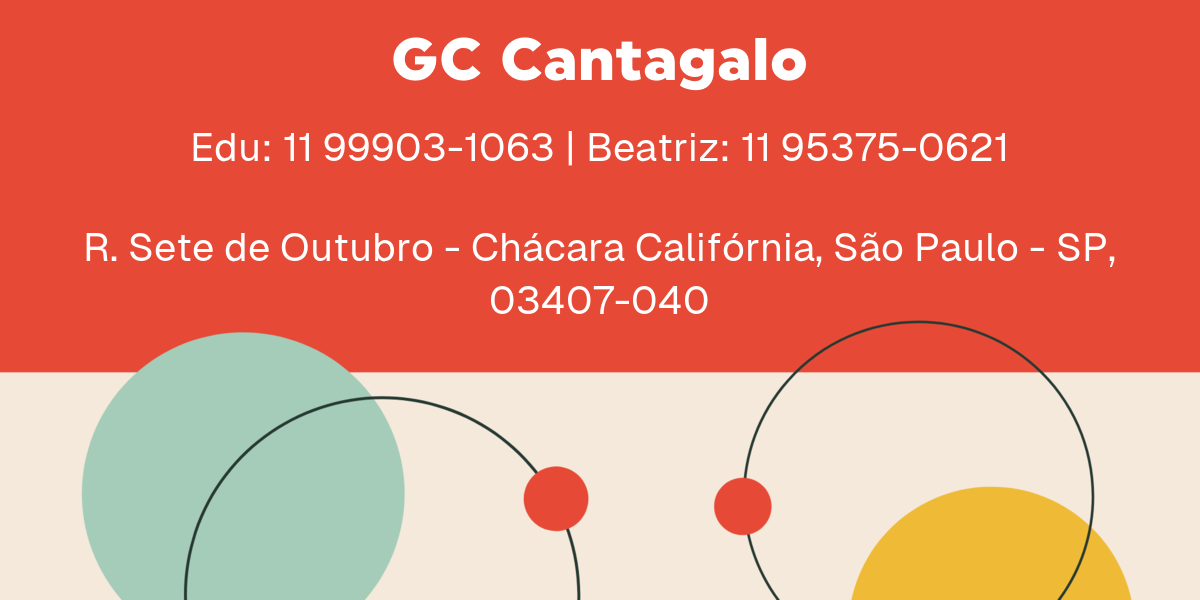
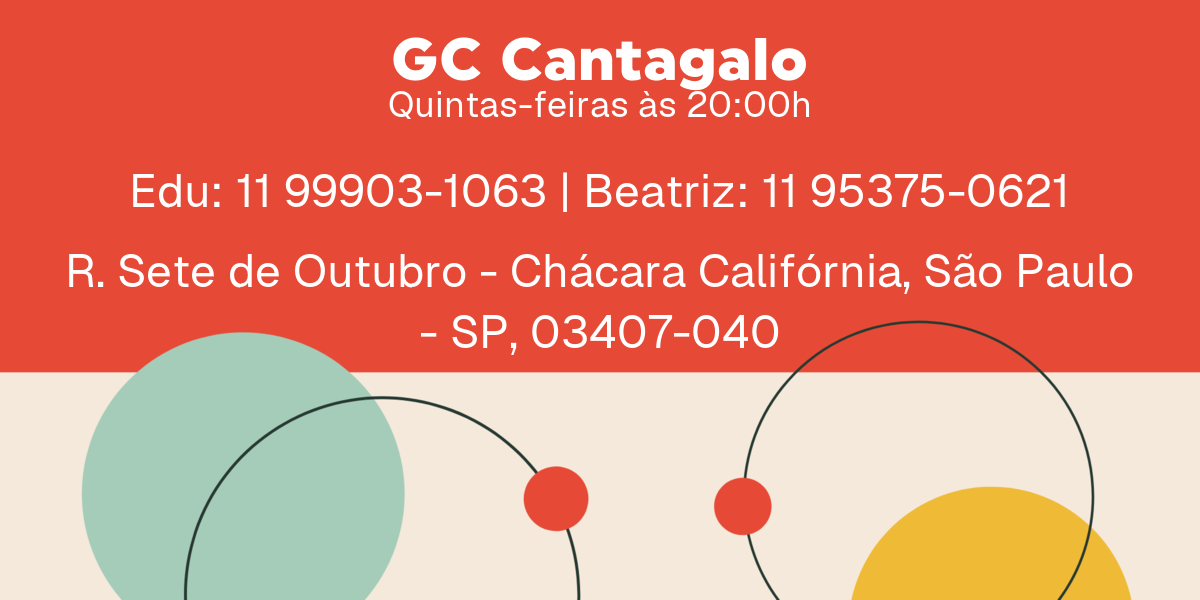
adiciona formatação de horários no gcFormater e refatora criação de imagens OpenGraph com função auxiliar para texto e adiciona nova linha para agenda do GC

Changed region(s): [[0.0925, 0.15, 0.8942, 0.36], [0.0308, 0.39, 0.9558, 0.6]]

diff --git a/scripts/create-opengraph-images-preview.js b/scripts/create-opengraph-images-preview.js
@@ -20,6 +20,21 @@ if (!fs.existsSync(outputDir)) {
   fs.mkdirSync(outputDir, { recursive: true });
 }
 
+function text(text, top, size=46, font=FONT_GEIST) {
+  return [
+    '\\(',
+    '-background none',
+    '-fill white',
+    `-font "${font}"`,
+    `-pointsize ${size}`,
+    '-gravity north',
+    '-size 1100x', // com base no tamanho original da imagem 2048
+    `caption:"${text}"`,
+    `-geometry +0+${top}`,
+    '\\)',
+    '-composite'
+  ].join(' ')
+}
 function createImage(gc, filename) {
   const outputPath = path.join(outputDir, filename);
   return new Promise((resolve, reject) => {
@@ -27,36 +42,14 @@ function createImage(gc, filename) {
     const command = [
       `magick ${inputImage}`,
       '-resize 1200',
-      // title
-      '-background none',
-      '-fill white',
-      `-font "${FONT_UNIFORM}"`,
-      '-pointsize 60',
-      '-gravity north',
-      `-annotate +0+30 "${gcFormater.title(gc)}"`,
-
-      // contacts
-      '-background none',
-      '-fill white',
-      `-font "${FONT_GEIST}"`,
-      '-pointsize 40',
-      '-gravity north',
-      `-annotate +0+120 "${gcFormater.contactsInline(gc)}"`,
-
-      // address
-      '\\(',
-      '-background none',
-      '-fill white',
-      `-font "${FONT_GEIST}"`,
-      '-pointsize 40',
-      '-gravity north',
-      '-size 1100x', // com base no tamanho original da imagem 2048
-      `caption:"${gc.address.text}"`,
-      '-geometry +0+220',
-      '\\) -composite',
+      text(gcFormater.title(gc), 30, 60, FONT_UNIFORM),
+      text(gcFormater.schedulesInline(gc), 80, 36),
+      text(gcFormater.contactsInline(gc), 160),
+      text(gc.address.text, 240),
       outputPath,
     ].join(' ')
 
+    // console.log(command, '\n\n'); return;
     exec(command, (error, stdout, stderr) => {
       if (error) {
         console.error(`Error executing command: ${error}`)

diff --git a/src/gc/formater.js b/src/gc/formater.js
@@ -2,6 +2,10 @@ function contactsInline(gc){
   return gc?.contacts?.map((c) => `${c.name}: ${c.phone}`).join(' | ') ?? ''
 }
 
+function schedulesInline(gc){
+  return gc?.schedules?.map((s) => `${s.weekday} às ${s.hour}h`).join(' | ') ?? ''
+}
+
 function title(gc){
   return `GC ${gc.name}`
 }
@@ -9,6 +13,7 @@ function title(gc){
 const gcFormater = {
   title,
   contactsInline,
+  schedulesInline,
 }
 
 export default gcFormater
